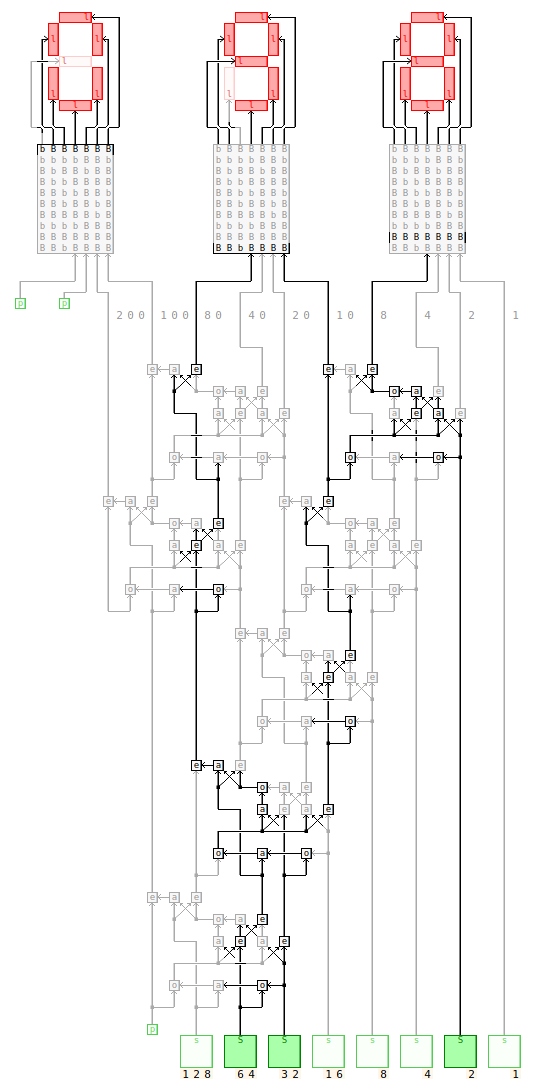
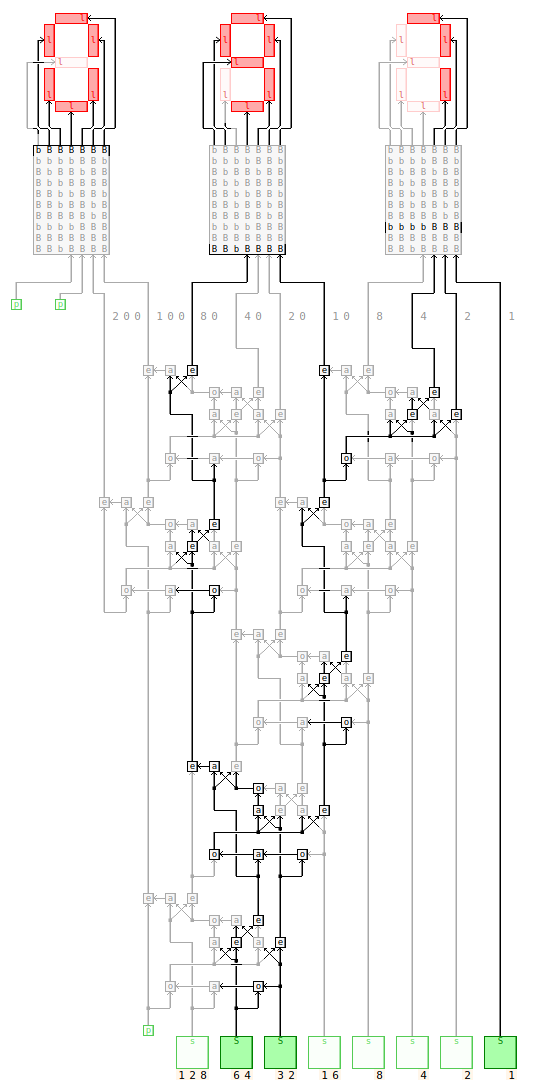
fix in wire crossing rendering

Changed region(s): [[0.03, 0.0, 0.9888, 0.9963], [0.03, 0.2491, 0.0599, 0.2802]]

diff --git a/logicemu.js b/logicemu.js
@@ -3509,6 +3509,73 @@ function RendererImg() { // RendererCanvas RendererGraphical
     }
   };
 
+  // The '+' wire crossing can still connect a particular one of its wires to a diagonal crossing input. The graphics for that
+  // are handled here.
+  // returns true if it drew a dot in the center
+  this.drawPlusDiagSplit_ = function(cell, ctx) {
+    var num = 0;
+    var cell;
+    var rect0 = false;
+    var rect1 = false;
+    var rect2 = false;
+
+    ctx.beginPath();
+    n = getNeighbor(cell.x, cell.y, 4);
+    if(n && n.circuitextra == 2) {
+      var c = n.circuitsymbol;
+      if(c == '^' || c == 'm') {
+        this.drawLineCore_(ctx, 0.5, 0, 1, 0);
+        rect1 = true;
+      }
+      if(c == '>' || c == ']') {
+        this.drawLineCore_(ctx, 0.5, 0.5, 1, 0);
+        rect0 = true;
+      }
+    }
+    n = getNeighbor(cell.x, cell.y, 5);
+    if(n && n.circuitextra == 2) {
+      var c = n.circuitsymbol;
+      if(c == 'v' || c == 'w') {
+        this.drawLineCore_(ctx, 0.5, 1, 1, 1);
+        rect2 = true;
+      }
+      if(c == '>' || c == ']') {
+        this.drawLineCore_(ctx, 0.5, 0.5, 1, 1);
+        rect0 = true;
+      }
+    }
+    n = getNeighbor(cell.x, cell.y, 6);
+    if(n && n.circuitextra == 2) {
+      var c = n.circuitsymbol;
+      if(c == 'v' || c == 'w') {
+        this.drawLineCore_(ctx, 0, 1, 0.5, 1);
+        rect2 = true;
+      }
+      if(c == '<' || c == '[') {
+        this.drawLineCore_(ctx, 0.5, 0.5, 0, 1);
+        rect0 = true;
+      }
+    }
+    n = getNeighbor(cell.x, cell.y, 7);
+    if(n && n.circuitextra == 2) {
+      var c = n.circuitsymbol;
+      if(c == '^' || c == 'm') {
+        this.drawLineCore_(ctx, 0, 0, 0.5, 0);
+        rect1 = true;
+      }
+      if(c == '<' || c == '[') {
+        this.drawLineCore_(ctx, 0.5, 0.5, 0, 0);
+        rect0 = true;
+      }
+    }
+    ctx.stroke();
+    if(rect0) ctx.fillRect((tw >> 1) - 1.5, (th >> 1) - 1.5, 3.5, 3.5);
+    if(rect1) ctx.fillRect((tw >> 1) - 1.5, 0, 3.5, 3.5);
+    if(rect2) ctx.fillRect((tw >> 1) - 1.5, th - 4, 3.5, 3.5);
+
+    return rect0;
+  }
+
   // specific initialization, can be re-done if cell changed on click
   this.init2 = function(cell, symbol, virtualsymbol, opt_title) {
     if(!this.canvas0) {
@@ -3563,10 +3630,12 @@ function RendererImg() { // RendererCanvas RendererGraphical
         if(isInterestingComponent(cell, 1)) { this.drawLine_(ctx, 0, 0, 0.4, 0.4); this.drawLine_(ctx, 0.6, 0.6, 1, 1); }
         if(isInterestingComponent(cell, 0)) this.drawLine_(ctx, 0, 1, 1, 0);
       } else if(c == '+') {
+        var centerfull = this.drawPlusDiagSplit_(cell, ctx);
+        var shift = centerfull ? 0.3 : 0.2;
         this.drawLine_(ctx, 0, 0.5, 1, 0.5);
         //this.drawLine(ctx, 0.5, 0, 0.5, 1);
-        this.drawLine_(ctx, 0.5, 0, 0.5, 0.4);
-        this.drawLine_(ctx, 0.5, 0.7, 0.5, 1);
+        this.drawLine_(ctx, 0.5, 0, 0.5, 0.5 - shift + 0.1);
+        this.drawLine_(ctx, 0.5, 0.5 + shift, 0.5, 1);
       } else if(c == '*' || c == ',') {
         this.drawSplit_(cell, ctx);
       } else if(c == '^') {
@@ -3669,6 +3738,7 @@ function RendererImg() { // RendererCanvas RendererGraphical
         if(hasDevice(cell.x, cell.y, 6)) this.drawAntiArrow_(ctx, 0.5, 0.5, 0, 1);
         if(hasDevice(cell.x, cell.y, 7)) this.drawAntiArrow_(ctx, 0.5, 0.5, 0, 0);
       } else if(c == 'X') {
+        // TODO: better also have a little gap like '+' does
         this.drawSplit_(cell, ctx, -8);
       } else if(c == '&') {
         var draw1 = connected2g(cell.x, cell.y, 0) && connected2g(cell.x, cell.y, 1) && isInterestingComponent(cell, 1);

diff --git a/circuits_help.js b/circuits_help.js
@@ -3164,6 +3164,12 @@ S**>C*******>l
 
 O*****>d****>l
 
+         e-->l
+        >
+C------+---->l
+      >
+       e---->l
+
 0"Off"
 0"---"
 
@@ -3264,6 +3270,11 @@ C**>c*******>l
 O**>c*******>l
 
 S**>c*******>l
+
+
+       e---->l
+      ^
+C-----
 
 
 0"Toggle"
